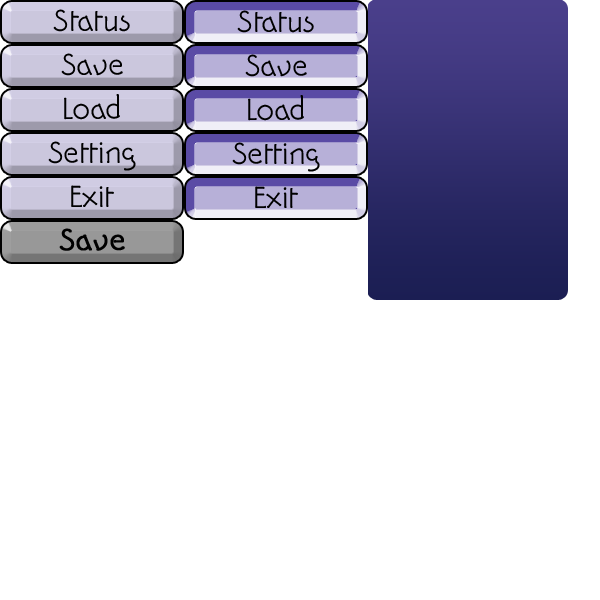
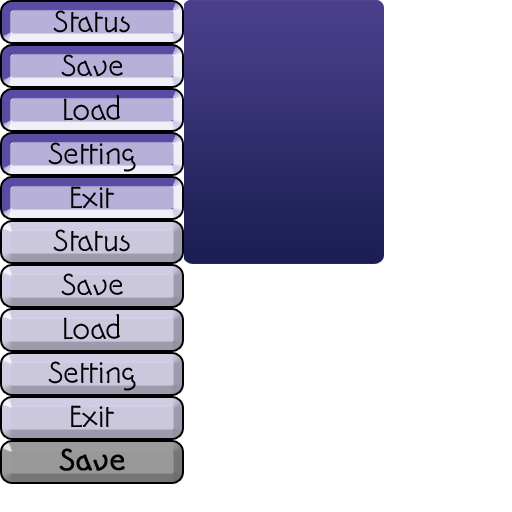
메뉴 이미지 출력방식 변경
git-svn-id: svn://gasbank.kaist.ac.kr/poolg/trunk@582 20279357-db7c-4b2f-af4c-8ae08146ad34

diff --git a/Src/EmptyProject/MenuState.cpp b/Src/EmptyProject/MenuState.cpp
@@ -6,6 +6,8 @@
 #include "TopStateManager.h"
 #include "WorldStateManager.h"
 #include "Hero.h"
+#include "Sprite.h"
+#include "SpriteManager.h"
 
 int loc;
 int slb;
@@ -19,10 +21,70 @@ float maxExp = 0;
 bool op_st = false;
 bool op_sa = false;
 bool op_lo = false;
+const UINT menuButtonWidth = 184;
+const UINT menuButtonHeight = 44;
 
 void MenuState::select(int move)
 {
-	if ( loc == 0)
+	if ( move == 0 )
+	{
+		if ( m_curSelMenu == 0 )
+		{
+			if ( op_st == false )
+			{
+				op_st = true;
+			}
+			else op_st = false;
+		}
+		else if ( m_curSelMenu == 1 )
+		{
+			if ( op_sa == false )
+			{
+				op_sa = true;
+			}
+			else op_sa = false;
+		}
+		else if ( m_curSelMenu == 2 )
+		{
+			if ( op_lo == false )
+			{
+				op_lo = true;
+			}
+			else op_lo = false;
+		}
+		else if ( m_curSelMenu == 4 )
+			SendMessage( DXUTGetHWND(), WM_CLOSE, 0, 0 );
+	}
+
+
+	if ( move == 8 || move == 9 )
+	{
+		m_menuDr[ m_curSelMenu ]->srcRect.top		+= menuButtonHeight * 5;
+		m_menuDr[ m_curSelMenu ]->srcRect.bottom	+= menuButtonHeight * 5;
+
+		
+		if(GetWorldStateManager().prevStateEnum() == GAME_WORLD_STATE_BATTLE)
+		{
+			if ( move == 8 ) m_curSelMenu += 2;
+			if ( move == 9 ) m_curSelMenu -= 2;
+		}
+		else if ( move == 8 ) --m_curSelMenu;
+		else if ( move == 9 ) ++m_curSelMenu;
+
+		if ( m_curSelMenu < 0 )
+			m_curSelMenu += 5;
+		else if ( m_curSelMenu > 4 )
+			m_curSelMenu = 0;
+
+
+		m_menuDr[ m_curSelMenu ]->srcRect.top		-= menuButtonHeight * 5;
+		m_menuDr[ m_curSelMenu ]->srcRect.bottom	-= menuButtonHeight * 5;
+
+	}
+
+
+
+	/*if ( loc == 0)
 	{
 		if(GetWorldStateManager().prevStateEnum() == GAME_WORLD_STATE_BATTLE)
 		{
@@ -45,11 +107,13 @@ void MenuState::select(int move)
 		if(GetWorldStateManager().prevStateEnum() == GAME_WORLD_STATE_BATTLE && loc == 2)
 		{
 			if( move == 8 )
+			{
 				loc -= 2;
+			}
 		}
-		else if (move == 8)
+		else if ( move == 8 )
 		{
-				loc -= 1;
+			loc -= 1;
 		}
 		if (move == 9)
 		{
@@ -57,7 +121,7 @@ void MenuState::select(int move)
 		}
 	}
 	else if ( loc == 4 )
-	{
+	{				
 		if ( move == 8 )
 		{
 			loc -= 1;
@@ -72,11 +136,7 @@ void MenuState::select(int move)
 	{
 		if ( move == 0 )
 		{
-			if ( op_st == false )
-			{
-				op_st = true;
-			}
-			else op_st = false;
+			
 		}
 	}
 
@@ -84,22 +144,14 @@ void MenuState::select(int move)
 	{
 		if ( move == 0 )
 		{
-			if ( op_sa == false )
-			{
-				op_sa = true;
-			}
-			else op_sa = false;
+			
 		}
 	}
 	if ( loc == 2 )
 	{
 		if ( move == 0 )
 		{
-			if ( op_lo == false )
-			{
-				op_lo = true;
-			}
-			else op_lo = false;
+			
 		}
 	}
 
@@ -107,7 +159,7 @@ void MenuState::select(int move)
 	{
 		if ( move == 0 )
 			SendMessage( DXUTGetHWND(), WM_CLOSE, 0, 0 );
-	}
+	}*/
 }
 
 void MenuState::saveloadselect(int select)
@@ -198,6 +250,8 @@ HRESULT MenuState::frameRender(IDirect3DDevice9* pd3dDevice,  double fTime, floa
 	pd3dDevice->SetTransform(D3DTS_VIEW, &GetG().g_fixedViewMat);
 	pd3dDevice->SetTransform(D3DTS_PROJECTION, &GetG().g_orthoProjMat);
 
+	GetSpriteManager().frameRenderSpecificSprite( "MenuUI" );
+
 	D3DMATERIAL9 material;
 	D3DCOLORVALUE cv, cv2;
 	cv.a = 0.3f; cv.r = 0.1f; cv.g = 0.1f; cv.b = 0.1f;
@@ -223,19 +277,15 @@ HRESULT MenuState::frameRender(IDirect3DDevice9* pd3dDevice,  double fTime, floa
 	switch ( loc )
 	{
 	case 0 :
-		m_stdb.draw();
+		
 		break;
 	case 1 :
-		m_sadb.draw();
 		break;
 	case 2 :
-		m_lodb.draw();
 		break;
 	case 3 :
-		m_sedb.draw();
 		break;
 	case 4 :
-		m_exdb.draw();
 		break;
 	}
 
@@ -457,15 +507,33 @@ MenuState::MenuState()
 
 	HRESULT hr;
 	m_pDev = GetG().m_dev;
-	float scrWidth = (float)GetG().m_scrWidth;
-	float scrHeight = (float)GetG().m_scrHeight;
 
-	float menuBoxWidth = 200;
-	float menuBoxHeight = 264;
+	const UINT menuBoxWidth = 200;
+	const UINT menuBoxHeight = 264;
+	const int scrWidth_i = GetG().m_scrWidth;
+	const int scrHeight_i = GetG().m_scrHeight;
+	float scrWidth_f = (float)GetG().m_scrWidth;
+	float scrHeight_f = (float)GetG().m_scrHeight;
 
-	float menuButtonWidth = 184;
-	float menuButtonHeight = 44;
+	m_sprite = GetSpriteManager().registerSprite( "MenuUI", "Images/menu_images.png" );
+	m_sprite->setCustomRendered( true );
+	m_sprite->registerRect( "MenuBox", menuButtonWidth, 0, menuButtonWidth+menuBoxWidth, menuBoxHeight);
+	m_sprite->registerRect( "Status_Unpushed", 0, 0, 0+menuButtonWidth, 0+menuButtonHeight*1 );
+	m_sprite->registerRect( "Save_Unpushed", 0, 0+menuButtonHeight*6, 0+menuButtonWidth, 0+menuButtonHeight*7 );
+	m_sprite->registerRect( "Load_Unpushed", 0, 0+menuButtonHeight*7, 0+menuButtonWidth, 0+menuButtonHeight*8 );
+	m_sprite->registerRect( "Setting_Unpushed", 0, 0+menuButtonHeight*8, 0+menuButtonWidth, 0+menuButtonHeight*9 );
+	m_sprite->registerRect( "Exit_Unpushed", 0, 0+menuButtonHeight*9, 0+menuButtonWidth, 0+menuButtonHeight*10 );
 
+	m_sprite->drawRequest( "MenuBox", 0, scrWidth_i - menuBoxWidth - 12, 5, 0, 0xffffffff );
+	m_menuDr[0] = m_sprite->drawRequest( "Status_Unpushed", 0, scrWidth_i - menuButtonWidth - 20, menuButtonHeight - 30, 0, 0xffffffff );
+	m_menuDr[1] = m_sprite->drawRequest( "Save_Unpushed", 0, scrWidth_i - menuButtonWidth - 20, menuButtonHeight + 20, 0, 0xffffffff );
+	m_menuDr[2] = m_sprite->drawRequest( "Load_Unpushed", 0, scrWidth_i - menuButtonWidth - 20, menuButtonHeight + 70, 0, 0xffffffff );
+	m_menuDr[3] = m_sprite->drawRequest( "Setting_Unpushed", 0, scrWidth_i - menuButtonWidth - 20, menuButtonHeight + 120, 0, 0xffffffff );
+	m_menuDr[4] = m_sprite->drawRequest( "Exit_Unpushed", 0, scrWidth_i - menuButtonWidth - 20, menuButtonHeight + 170, 0, 0xffffffff );
+
+	m_curSelMenu = 0;
+
+	/*
 	float menuBoxPositionX = (float)scrWidth/2 - menuBoxWidth - 12;
 	float menuBoxPositionY = (float)scrHeight/2 - menuBoxHeight - 20;
 	m_menu.init(L"Images/menu_window.png", m_pDev);
@@ -515,39 +583,39 @@ MenuState::MenuState()
 
 	m_exdb.init(L"Images/exit_down_button.png", m_pDev);
 	m_exdb.setPos ( (float)scrWidth/2 - menuButtonWidth - 20, (float)scrHeight/2 - menuButtonHeight - 230, 2.7f);
-	m_exdb.setSize( menuButtonWidth, menuButtonHeight);
+	m_exdb.setSize( menuButtonWidth, menuButtonHeight);*/
 
 	m_stwin.init(L"Images/status_window.png", m_pDev);
-	m_stwin.setPos ( 0 - scrWidth / 2, 0 - scrHeight / 2, 2.6f);
-	m_stwin.setSize(scrWidth, scrHeight);
+	m_stwin.setPos ( 0 - scrWidth_f / 2, 0 - scrHeight_f / 2, 2.6f);
+	m_stwin.setSize(scrWidth_f, scrHeight_f);
 
 	m_sawin.init(L"Images/save_window.png", m_pDev);
-	m_sawin.setPos ( 0 - scrWidth / 2, 0 - scrHeight / 2, 2.6f);
-	m_sawin.setSize(scrWidth, scrHeight);
+	m_sawin.setPos ( 0 - scrWidth_f / 2, 0 - scrHeight_f / 2, 2.6f);
+	m_sawin.setSize(scrWidth_f, scrHeight_f);
 
 	m_lowin.init(L"Images/load_window.png", m_pDev);
-	m_lowin.setPos ( 0 - scrWidth / 2, 0 - scrHeight / 2, 2.6f);
-	m_lowin.setSize(scrWidth, scrHeight);
+	m_lowin.setPos ( 0 - scrWidth_f / 2, 0 - scrHeight_f / 2, 2.6f);
+	m_lowin.setSize( scrWidth_f, scrHeight_f);
 
 	m_hpbar.init(L"Images/BattleUI/HPbar.jpg", m_pDev);
-	m_hpbar.setPos ( (0 - scrWidth / 2) + 163, (0 - scrHeight / 2) + 223, 2.4f);
+	m_hpbar.setPos ( (0 - scrWidth_f / 2) + 163, (0 - scrHeight_f / 2) + 223, 2.4f);
 
 	m_hpbg.init(L"Images/BattleUI/HPbg.jpg", m_pDev);
-	m_hpbg.setPos ( (0 - scrWidth / 2) + 163, (0 - scrHeight / 2) + 223, 2.5f);
+	m_hpbg.setPos ( (0 - scrWidth_f / 2) + 163, (0 - scrHeight_f / 2) + 223, 2.5f);
 	m_hpbg.setSize(220, 22);
 
 	m_mpbar.init(L"Images/BattleUI/DKbar.jpg", m_pDev);
-	m_mpbar.setPos ( (0 - scrWidth / 2) + 163, (0 - scrHeight / 2) + 171, 2.4f);
+	m_mpbar.setPos ( (0 - scrWidth_f / 2) + 163, (0 - scrHeight_f / 2) + 171, 2.4f);
 
 	m_mpbg.init(L"Images/BattleUI/MPbg.jpg", m_pDev);
-	m_mpbg.setPos ( (0 - scrWidth / 2) + 163, (0 - scrHeight / 2) + 171, 2.5f);
+	m_mpbg.setPos ( (0 - scrWidth_f / 2) + 163, (0 - scrHeight_f / 2) + 171, 2.5f);
 	m_mpbg.setSize(220, 22);
 	
 	m_expbar.init(L"Images/BattleUI/EXPbar.jpg", m_pDev);
-	m_expbar.setPos ( (0 - scrWidth / 2) + 163, (0 - scrHeight / 2) + 119, 2.4f);
+	m_expbar.setPos ( (0 - scrWidth_f / 2) + 163, (0 - scrHeight_f / 2) + 119, 2.4f);
 
 	m_expbg.init(L"Images/BattleUI/EXPbg.jpg", m_pDev);
-	m_expbg.setPos ( (0 - scrWidth / 2) + 163, (0 - scrHeight / 2) + 119, 2.5f);
+	m_expbg.setPos ( (0 - scrWidth_f / 2) + 163, (0 - scrHeight_f / 2) + 119, 2.5f);
 	m_expbg.setSize(220, 22);
 
 	m_slb0.init(L"Images/save_load_selected.png", m_pDev);

diff --git a/Src/EmptyProject/MenuState.h b/Src/EmptyProject/MenuState.h
@@ -2,6 +2,9 @@
 #include "Picture.h"
 #include "State.h"
 
+class Sprite;
+class DrawRequest;
+
 class MenuState : public State
 { 
 public:
@@ -20,7 +23,17 @@ public:
 
 	
 private:
-	
+	Sprite*			m_sprite;
+
+	DrawRequest*	m_menuBoxDr;
+	DrawRequest*	m_menuBoxDr1;
+	DrawRequest*	m_menuBoxDr2;
+	DrawRequest*	m_menuBoxDr3;
+	DrawRequest*	m_menuBoxDr4;
+
+	DrawRequest*	m_menuDr[5];
+	int				m_curSelMenu;
+
 	LPD3DXFONT		m_lblHYnamL;
 	LPD3DXFONT		m_lblREB;
 	LPD3DXFONT		m_lblsREB;
